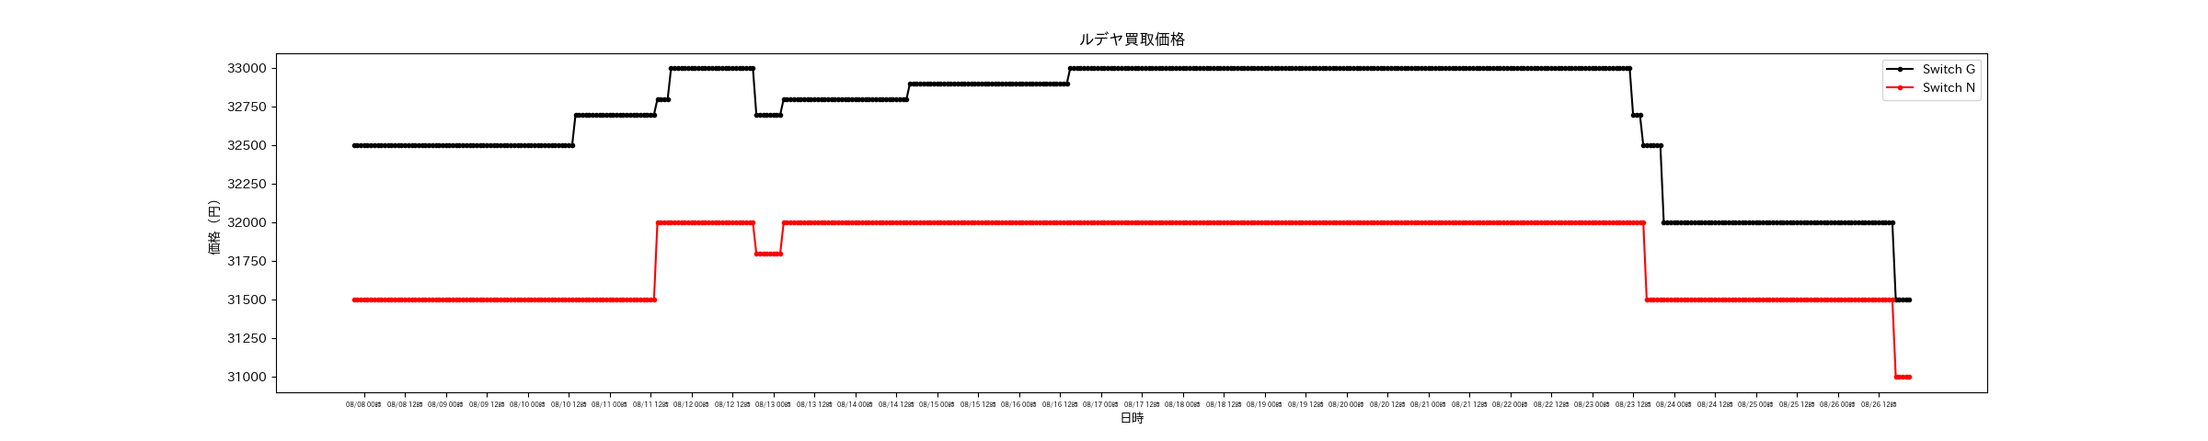
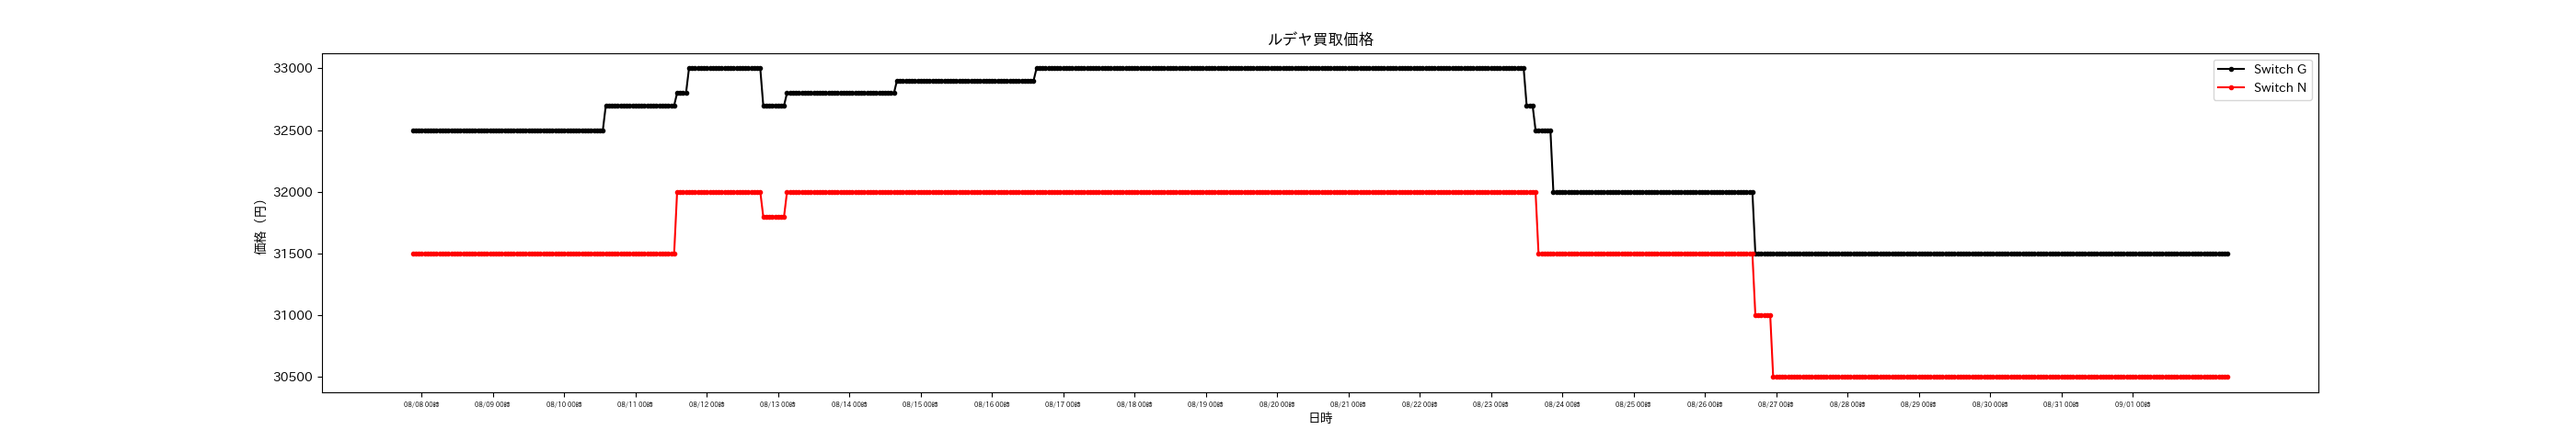
2021-09-04

diff --git a/rudeya_data_plot.py b/rudeya_data_plot.py
@@ -21,17 +21,18 @@ xlabel_list = (data_frame['date']+data_frame['hour']).to_list()
 # 日本語を抜いて簡略表示
 plot_xlabel_list = [l.replace('2021年', '').replace('月', '/').replace('日', ' ') for l in xlabel_list]
 # 12時間毎に表示
+PER = 24
 print(len(plot_xlabel_list), plot_xlabel_list)
-days = len(plot_xlabel_list)//12
+days = len(plot_xlabel_list)//PER
 print(days)
-days_plot = [d*12+3 for d in range(days)]
+days_plot = [d*PER+3 for d in range(days)]
 print(days_plot)
 label_list = [plot_xlabel_list[days_plot[ll]] for ll in range(days) if days_plot[ll] < len(plot_xlabel_list)]
 print(label_list)
 FONT_SIZE=5
 plot.xticks(days_plot, label_list, fontsize=FONT_SIZE)
 plot.legend()
-FIG_W = 24
+FIG_W = 28
 fig.set_figwidth(FIG_W)
 
 plot.title('ルデヤ買取価格')
